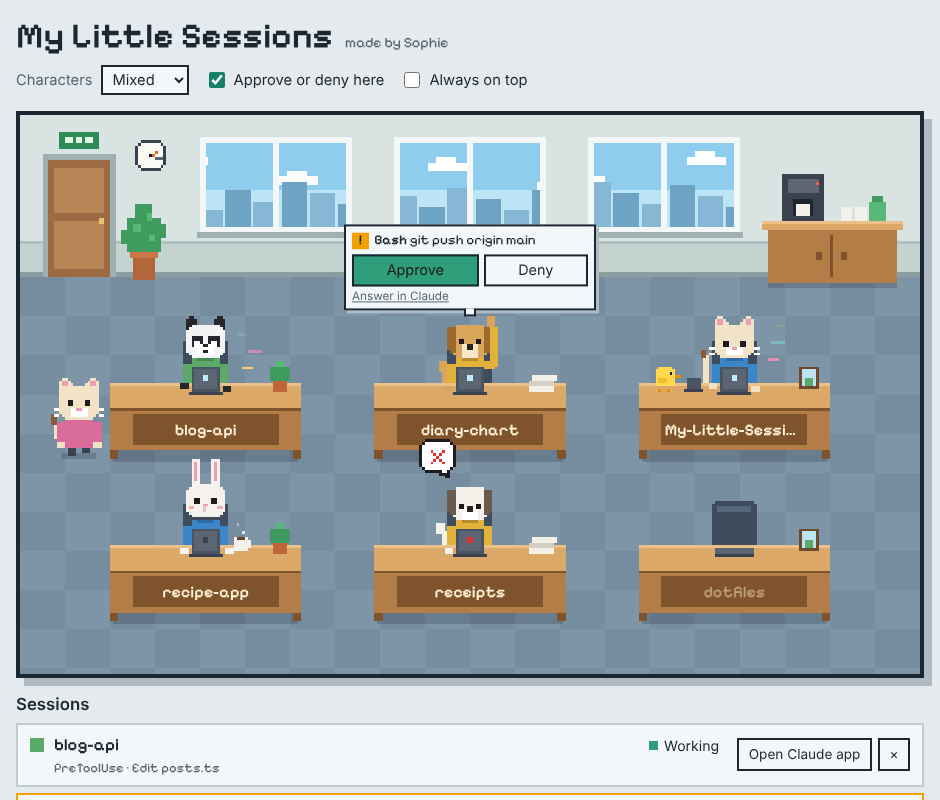
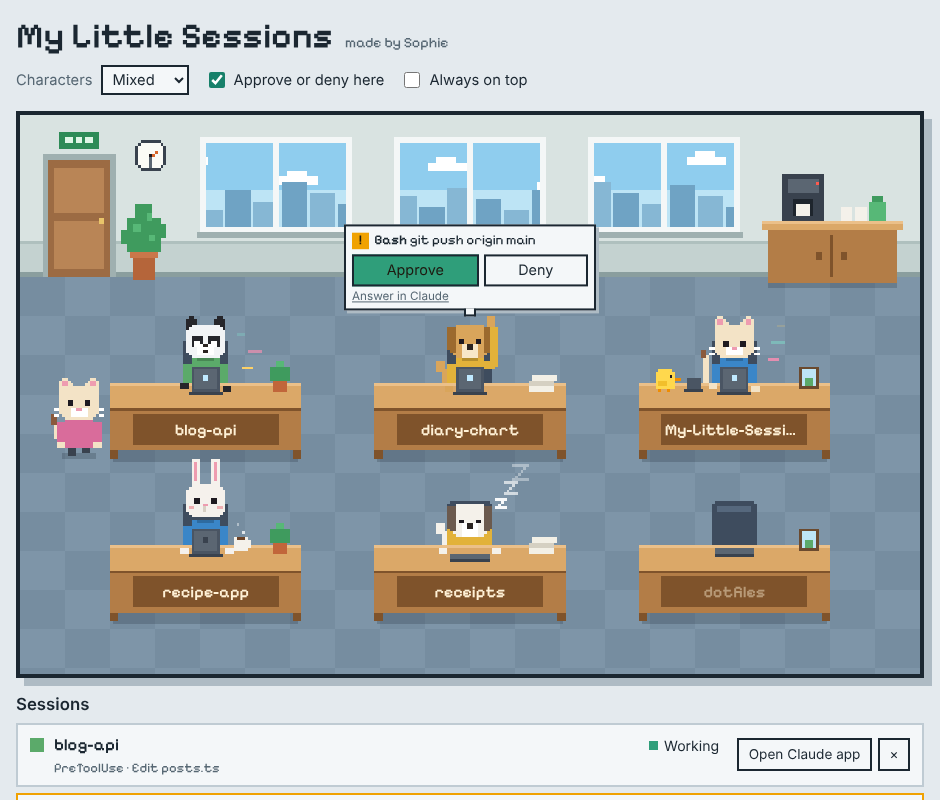
Show quiet sessions asleep and keep the office across restarts
A session that has been waiting for five minutes now puts its head down
on the desk with floating z's, so "just finished" (coffee) and "left
alone for a while" (asleep) are easy to tell apart.

The app also remembers who was in the office, so reopening it shows the
same sessions instead of an empty room until each one does something.

Claude-Session: https://claude.ai/code/session_011fB4UR8gxU3EZ1Y68YrFjY

Changed region(s): [[0.4319, 0.5312, 0.5553, 0.7188], [0.6787, 0.4688, 0.7096, 0.5]]

diff --git a/src/ui/office.js b/src/ui/office.js
@@ -151,13 +151,14 @@ window.PixelOffice = function (canvas) {
   }
   const headTop = (s, T, t) => {
     const typing = s.state === 'working' || s.state === 'subagent';
+    if (s.state === 'sleeping') return T - 15 + (Math.sin(t * 1.2 + s.seed) > 0.6 ? 1 : 0);   // head down on the desk, breathing
     return T - 21 + (typing && ((t * 1.3 + s.seed) % 3 < 0.25) ? 1 : 0) + (s.state === 'waiting' ? -1 : 0);
   };
   function seated(s, d, t) {
     const { cx, T } = d, k = kindOf(s), c = colOf(s), st = s.state, hc = c.hand || c.fur;
     const typing = st === 'working' || st === 'subagent';
     const hy = headTop(s, T, t), by = T - 9;
-    const blink = ((t + s.seed * 1.7) % 3.4) < 0.12;
+    const blink = st === 'sleeping' || ((t + s.seed * 1.7) % 3.4) < 0.12;
     if (k === 'cat') { const sw = Math.round(Math.sin(t * 2 + s.seed)); R(cx - 11, T - 6, 2, 6, c.fur); R(cx - 12 - sw, T - 10, 2, 5, c.fur); R(cx - 13 - sw, T - 12, 2, 3, c.dark); }
     if (k === 'dog') { const wag = (st === 'approval' || st === 'waiting') ? Math.round(Math.sin(t * 10)) : 0; R(cx - 10, T - 5, 2, 5, c.fur); R(cx - 12 + wag, T - 8, 3, 4, c.fur); }
     R(cx - 5, by, 10, 10, s.shirt); R(cx - 3, by, 6, 1, 'rgba(0,0,0,.2)');
@@ -187,6 +188,7 @@ window.PixelOffice = function (canvas) {
     const { cx, T } = d, st = s.state, c = colOf(s), hc = c.hand || c.fur;
     deco(d, s.desk);
     if (s.mode !== 'seated') { R(cx - 7, T + 1, 14, 2, LID2); R(cx - 7, T + 3, 14, 1, LIDSH); return; }
+    if (st === 'sleeping') { R(cx - 7, T + 3, 14, 2, LID2); R(cx - 7, T + 5, 14, 1, LIDSH); R(cx - 11, T + 1, 3, 2, hc); R(cx + 8, T + 1, 3, 2, hc); return; }
     const on = st !== 'waiting';
     R(cx - 5, T - 6, 10, 9, LID); R(cx - 4, T - 5, 8, 7, LID2); R(cx - 1, T - 3, 2, 2, st === 'error' ? '#E03131' : on ? '#BFE9FF' : LIDSH); R(cx - 6, T + 3, 12, 1, LIDSH);
     if (st === 'working' || st === 'subagent') {
@@ -224,6 +226,11 @@ window.PixelOffice = function (canvas) {
     R(x - 8, fy - 13 + f, 3, 7, s.shirt); R(x + 5, fy - 13 + f, 3, 7, s.shirt);
     R(x - 8, fy - 6 + f, 3, 2, hc); R(x + 5, fy - 6 + f, 3, 2, hc);
     head(k, c, x, fy - 26 + f, { blink: false });
+  }
+  // A pixel "z" for a sleeping session.
+  function zzz(x, y, n) {
+    R(x, y, n, 1, '#FFFFFF'); R(x, y + n - 1, n, 1, '#FFFFFF');
+    for (let k = 1; k < n - 1; k++) R(x + n - 1 - k, y + k, 1, 1, '#FFFFFF');
   }
   // A small red "x" bubble for a session whose turn ended with an API error.
   function errorBubble(x, y) {
@@ -269,7 +276,7 @@ window.PixelOffice = function (canvas) {
     for (const s of visuals) {
       if (s.mode !== 'seated' || !desks[s.desk]) continue;
       const { cx, T } = desks[s.desk], st = s.state;
-      if (night && st !== 'waiting') { R(cx - 8, T - 21, 16, 2, 'rgba(150,205,255,.07)'); R(cx - 10, T - 19, 20, 19, 'rgba(150,205,255,.07)'); R(cx - 7, T - 16, 14, 13, 'rgba(170,215,255,.10)'); R(cx - 1, T - 3, 2, 2, st === 'error' ? '#FF8A80' : '#DFF4FF'); }
+      if (night && st !== 'waiting' && st !== 'sleeping') { R(cx - 8, T - 21, 16, 2, 'rgba(150,205,255,.07)'); R(cx - 10, T - 19, 20, 19, 'rgba(150,205,255,.07)'); R(cx - 7, T - 16, 14, 13, 'rgba(170,215,255,.10)'); R(cx - 1, T - 3, 2, 2, st === 'error' ? '#FF8A80' : '#DFF4FF'); }
       if (st === 'working' || st === 'subagent') {
         const cs = ['#7FDBCA', '#FFD166', '#F78FB3'];
         for (let i = 0; i < 3; i++) {
@@ -280,6 +287,14 @@ window.PixelOffice = function (canvas) {
         ctx.globalAlpha = 1;
       }
       if (st === 'error') errorBubble(cx - 17, T - 37);
+      if (st === 'sleeping') {
+        for (let i = 0; i < 3; i++) {
+          const ph = (t * 0.3 + s.seed * 0.21 + i / 3) % 1;
+          ctx.globalAlpha = 1 - ph * 0.85;
+          zzz(cx + 8 + ph * 10, T - 16 - ph * 18, ph < 0.35 ? 4 : ph < 0.7 ? 5 : 6);
+        }
+        ctx.globalAlpha = 1;
+      }
     }
   }
   // Which desk (index) is at this point of the canvas, in canvas pixels; -1 when none.

diff --git a/src/ui/app.js b/src/ui/app.js
@@ -8,7 +8,7 @@
       approveHere: 'Approve or deny here', onTop: 'Always on top', sessions: 'Sessions',
       canvas: 'Pixel-art office. Each Claude Code session sits at a desk; the session list below describes every state in text.',
       empty: 'Nobody is in yet. A Claude Code session walks in as soon as it does something.',
-      working: 'Working', subagent: 'Intern at work', approval: 'Needs approval', waiting: 'Waiting for you', error: 'Error', arriving: 'Arriving', leaving: 'Leaving',
+      working: 'Working', subagent: 'Intern at work', approval: 'Needs approval', waiting: 'Waiting for you', sleeping: 'Asleep', error: 'Error', arriving: 'Arriving', leaving: 'Leaving',
       allow: 'Approve', deny: 'Deny', pass: 'Answer in Claude', answerInClaude: 'Answer this one in Claude.', more: n => `+${n} more`,
       open: 'Open Claude app', openHint: 'Opens the Claude desktop app with a new session in this folder', openFail: 'Could not open the Claude desktop app.',
       dismiss: 'Clear desk', needsYou: 'Needs your answer',
@@ -24,7 +24,7 @@
       approveHere: '여기서 승인/거절', onTop: '항상 위에', sessions: '세션',
       canvas: '픽셀아트 사무실. Claude Code 세션마다 책상에 앉아 있고, 상태는 아래 세션 목록에 글로 나옵니다.',
       empty: '아직 출근한 세션이 없어요. Claude Code 세션이 움직이면 문으로 걸어 들어와요.',
-      working: '작업 중', subagent: '인턴 투입', approval: '승인 대기', waiting: '입력 대기', error: '오류', arriving: '출근 중', leaving: '퇴근 중',
+      working: '작업 중', subagent: '인턴 투입', approval: '승인 대기', waiting: '입력 대기', sleeping: '자는 중', error: '오류', arriving: '출근 중', leaving: '퇴근 중',
       allow: '승인', deny: '거절', pass: 'Claude에서 답하기', answerInClaude: '이 요청은 Claude에서 답해 주세요.', more: n => `외 ${n}건`,
       open: 'Claude 앱 열기', openHint: 'Claude 데스크톱 앱에서 이 폴더로 새 세션을 엽니다', openFail: 'Claude 데스크톱 앱을 열지 못했어요.',
       dismiss: '자리 치우기', needsYou: '확인이 필요해요',

diff --git a/src/sessions.js b/src/sessions.js
@@ -3,6 +3,7 @@
 const { EventEmitter } = require('events');
 
 const STALE_MS = 12 * 60 * 60 * 1000;
+const SLEEP_MS = 5 * 60 * 1000;   // a waiting session with no activity for this long dozes off
 const KNOWN = new Set([
   'SessionStart', 'UserPromptSubmit', 'PreToolUse', 'PostToolUse', 'PostToolUseFailure',
   'PermissionRequest', 'PermissionDenied', 'Notification', 'SubagentStart', 'SubagentStop',
@@ -173,15 +174,30 @@ class Office extends EventEmitter {
     for (const s of [...this.sessions.values()]) if (s.lastAt < cutoff) this.dismiss(s.id);
   }
 
+  // What is worth remembering across a restart of the app: who was here, not what they were doing.
+  export() {
+    return [...this.sessions.values()].map(s => ({ id: s.id, title: s.title, cwd: s.cwd, ev: s.ev, startedAt: s.startedAt, lastAt: s.lastAt }));
+  }
+
+  restore(list) {
+    const cutoff = this.now() - STALE_MS;
+    for (const r of Array.isArray(list) ? list : []) {
+      if (!r || typeof r.id !== 'string' || !r.id || !(r.lastAt > cutoff) || this.sessions.has(r.id)) continue;
+      const title = typeof r.title === 'string' ? r.title : '', cwd = typeof r.cwd === 'string' ? r.cwd : '';
+      this.sessions.set(r.id, { id: r.id, name: title || baseName(cwd), title, cwd, base: 'waiting', ev: typeof r.ev === 'string' ? r.ev : '', subagents: 0, pending: [], error: '', startedAt: Number(r.startedAt) || r.lastAt, lastAt: r.lastAt });
+    }
+  }
+
   snapshot() {
     return [...this.sessions.values()]
       .sort((a, b) => a.startedAt - b.startedAt)
       .map(s => ({
         id: s.id, name: s.name, cwd: s.cwd, ev: s.ev, error: s.error,
-        state: s.pending.length ? 'approval' : s.error ? 'error' : s.subagents > 0 ? 'subagent' : s.base,
+        state: s.pending.length ? 'approval' : s.error ? 'error' : s.subagents > 0 ? 'subagent'
+          : s.base === 'waiting' && this.now() - s.lastAt > SLEEP_MS ? 'sleeping' : s.base,
         pending: s.pending.map(p => ({ id: p.id, tool: p.tool, text: p.text, canDecide: p.canDecide }))
       }));
   }
 }
 
-module.exports = { Office, baseName, describe, STALE_MS };
+module.exports = { Office, baseName, describe, STALE_MS, SLEEP_MS };

diff --git a/test/sessions.test.js b/test/sessions.test.js
@@ -1,7 +1,7 @@
 'use strict';
 const test = require('node:test');
 const assert = require('node:assert/strict');
-const { Office, describe, baseName, STALE_MS } = require('../src/sessions');
+const { Office, describe, baseName, STALE_MS, SLEEP_MS } = require('../src/sessions');
 
 const ev = (name, extra = {}) => ({ session_id: 's1', cwd: 'C:\\Projects\\blog-api', hook_event_name: name, ...extra });
 const only = office => office.snapshot()[0];
@@ -123,4 +123,33 @@ test('describe and baseName handle both path styles', () => {
   assert.equal(describe({ command: 'a'.repeat(100) }, true).length, 48);
   assert.equal(describe({}, true), '');
   assert.equal(describe({ todos: [1] }, true), '{"todos":[1]}');
+});
+
+test('a waiting session dozes off after a quiet while and wakes on the next prompt', () => {
+  let now = 1000;
+  const o = new Office({ now: () => now });
+  o.handle(ev('Stop'));
+  assert.equal(only(o).state, 'waiting');
+  now += SLEEP_MS + 1;
+  assert.equal(only(o).state, 'sleeping');
+  o.handle(ev('UserPromptSubmit'));
+  assert.equal(only(o).state, 'working');
+  now += SLEEP_MS + 1;
+  assert.equal(only(o).state, 'working', 'a long-running turn is not asleep');
+});
+
+test('sessions survive a restart as waiting, without stale ones or old requests', () => {
+  let now = STALE_MS * 2;
+  const a = new Office({ now: () => now });
+  a.handle(ev('UserPromptSubmit', { session_title: 'auth refactor' }));
+  a.handle(ev('PermissionRequest', { tool_name: 'Bash', tool_input: { command: 'ls' } }), { canDecide: true });
+  a.handle({ ...ev('Stop'), session_id: 'old' });
+  a.sessions.get('old').lastAt = now - STALE_MS - 1;
+  const b = new Office({ now: () => now });
+  b.restore(JSON.parse(JSON.stringify(a.export())));
+  b.restore([null, { id: 5 }, 'x']);
+  assert.equal(b.snapshot().length, 1);
+  assert.equal(only(b).name, 'auth refactor');
+  assert.equal(only(b).state, 'waiting');
+  assert.deepEqual(only(b).pending, []);
 });

diff --git a/src/server.js b/src/server.js
@@ -41,6 +41,7 @@ function createServer(options = {}) {
   const port = options.port ?? DEFAULT_PORT;
   const configDir = options.configDir;
   const configFile = path.join(configDir, 'config.json');
+  const sessionsFile = path.join(configDir, 'sessions.json');
   const uiDir = options.uiDir || path.join(__dirname, 'ui');
   const settingsFile = options.settingsFile || hooksConfig.settingsPath();
   const platform = options.platform || process.platform;
@@ -53,6 +54,7 @@ function createServer(options = {}) {
   let boundPort = port;
   let timers = [];
   let queued = false;
+  let saveTimer = null;
 
   const saveConfig = () => { fs.mkdirSync(configDir, { recursive: true }); fs.writeFileSync(configFile, JSON.stringify(config, null, 2) + '\n'); };
 
@@ -84,6 +86,9 @@ function createServer(options = {}) {
     return true;
   }
 
+  // Remember who is in the office, so reopening the app shows the same sessions.
+  const saveSessions = () => { try { fs.writeFileSync(sessionsFile, JSON.stringify(office.export())); } catch (e) { /* not worth failing over */ } };
+  office.on('change', () => { clearTimeout(saveTimer); saveTimer = setTimeout(saveSessions, 500); });
   office.on('change', broadcast);
   office.on('release', id => reply(id, ''));
 
@@ -199,6 +204,7 @@ function createServer(options = {}) {
   function start() {
     config = loadConfig(configFile);
     saveConfig();
+    try { office.restore(JSON.parse(fs.readFileSync(sessionsFile, 'utf8'))); } catch (e) { /* nothing saved yet */ }
     return new Promise((resolve, reject) => {
       server = http.createServer(onRequest);
       server.once('error', reject);
@@ -216,6 +222,8 @@ function createServer(options = {}) {
 
   function stop() {
     timers.forEach(clearInterval);
+    clearTimeout(saveTimer);
+    if (config) saveSessions();
     for (const id of [...held.keys()]) reply(id, '');
     for (const res of streams) res.end();
     streams.clear();

diff --git a/src/ui/style.css b/src/ui/style.css
@@ -5,7 +5,7 @@
 :root {
   --bg: #E4EAEE; --surface: #F4F7F9; --ink: #1B2731; --muted: #566773; --line: #BFCBD3;
   --accent: #17806A; --frame: #1B2731; --drop: #AEBBC4; --plate-text: #FFF1D6;
-  --st-work: #2F9E7A; --st-sub: #7A5CC7; --st-ask: #F0A202; --st-wait: #5E87A8; --st-in: #D9662B; --st-err: #D6336C; --on-ask: #1E1A10;
+  --st-work: #2F9E7A; --st-sub: #7A5CC7; --st-ask: #F0A202; --st-wait: #5E87A8; --st-in: #D9662B; --st-err: #D6336C; --st-off: #9AA7AF; --on-ask: #1E1A10;
   --f-body: 'Segoe UI', 'Malgun Gothic', 'Apple SD Gothic Neo', system-ui, sans-serif;
   --f-pixel: 'Pixelify Sans', 'Malgun Gothic', 'Apple SD Gothic Neo', ui-monospace, monospace;
   color-scheme: light;
@@ -14,7 +14,7 @@
   :root {
     --bg: #121920; --surface: #1A242D; --ink: #E3EBF0; --muted: #93A5B1; --line: #2B3945;
     --accent: #49C4A2; --frame: #05080B; --drop: #070B0F; --plate-text: #E6DAC2;
-    --st-work: #46C39A; --st-sub: #A48BEB; --st-ask: #F5B83A; --st-wait: #7FA9CC; --st-in: #F08A4B; --st-err: #F06595; --on-ask: #1E1A10;
+    --st-work: #46C39A; --st-sub: #A48BEB; --st-ask: #F5B83A; --st-wait: #7FA9CC; --st-in: #F08A4B; --st-err: #F06595; --st-off: #6B7A85; --on-ask: #1E1A10;
     color-scheme: dark;
   }
 }
@@ -85,6 +85,8 @@ ul { list-style: none; margin: 0; padding: 0; }
 .row[data-st="subagent"] .pill i { background: var(--st-sub); }
 .row[data-st="arriving"] .pill i, .row[data-st="leaving"] .pill i { background: var(--st-in); }
 .row[data-st="error"] .pill i { background: var(--st-err); }
+.row[data-st="sleeping"] .pill i { background: var(--st-off); }
+.row[data-st="sleeping"] .nm { color: var(--muted); }
 .row[data-st="approval"] .pill { background: var(--st-ask); color: var(--on-ask); }
 .row[data-st="approval"] .pill i { background: var(--on-ask); }
 .acts { grid-area: acts; display: flex; gap: 6px; align-items: center; }

diff --git a/test/server.test.js b/test/server.test.js
@@ -163,11 +163,15 @@ test('the page and health check are served, other paths are not', async t => {
   assert.equal((await fetch(srv.url + '/nope.js')).status, 404);
 });
 
-test('the hook token survives a restart so installed hooks keep working', async t => {
-  const { srv, dir } = await boot(t);
+test('the hook token and the sessions survive a restart', async t => {
+  const { srv, dir, hook } = await boot(t);
+  await hook({ hook_event_name: 'UserPromptSubmit' });
+  const token = srv.hookUrl.split('/').pop();
+  await srv.stop();
   const again = createServer({ port: 0, configDir: dir, settingsFile: path.join(dir, 'x.json') });
   await again.start();
   t.after(() => again.stop());
-  assert.equal(again.hookUrl.split('/').pop(), srv.hookUrl.split('/').pop());
+  assert.equal(again.hookUrl.split('/').pop(), token);
   assert.notEqual(again.uiKey, srv.uiKey);
+  assert.deepEqual(again.office.snapshot().map(s => [s.name, s.state]), [['blog-api', 'waiting']]);
 });

diff --git a/README.md b/README.md
@@ -25,12 +25,14 @@ Windows may show a "Windows protected your PC" notice because the app is not cod
 | Types, with bits of code floating up | Claude is working on your prompt or running a tool |
 | A chick intern appears on the desk | A subagent is running |
 | Raises a hand, with a speech bubble | Claude needs your permission |
-| Sips coffee | Claude finished and is waiting for you |
+| Sips coffee | Claude just finished and is waiting for you |
+| Sleeps on the desk, with floating z's | Nothing has happened for 5 minutes |
 | Slumps with a red ✕ | The turn ended with an API error |
 | Walks out | The session ended |
 
 A few more things the office does on its own:
 
+- **The office always matches your sessions.** Characters arrive, change and leave on their own, and reopening the app brings back whoever was there.
 - **Desks are added as you need them.** Three more appear whenever every desk is taken.
 - **The wall clock and the sky outside follow your real time**, so the office goes through day, sunset and night with you.
 - **Characters can be people, cats, dogs, bears, rabbits, or a mix.** A session keeps the same look for as long as it lives.
@@ -55,7 +57,7 @@ My Little Sessions uses [hooks](https://code.claude.com/docs/en/hooks), the exte
 
 Two things to know:
 
-- A session whose terminal was closed abruptly cannot say goodbye. Clear its desk with the **×** button; otherwise it leaves on its own after 12 hours of silence.
+- A session whose terminal was closed abruptly, or that ended while the app was closed, cannot say goodbye. It falls asleep at its desk. Clear the desk with the **×** button; otherwise it leaves on its own after 12 hours of silence.
 - Only sessions on this computer show up. Cloud sessions do not read your local settings file.
 
 ## Uninstall
